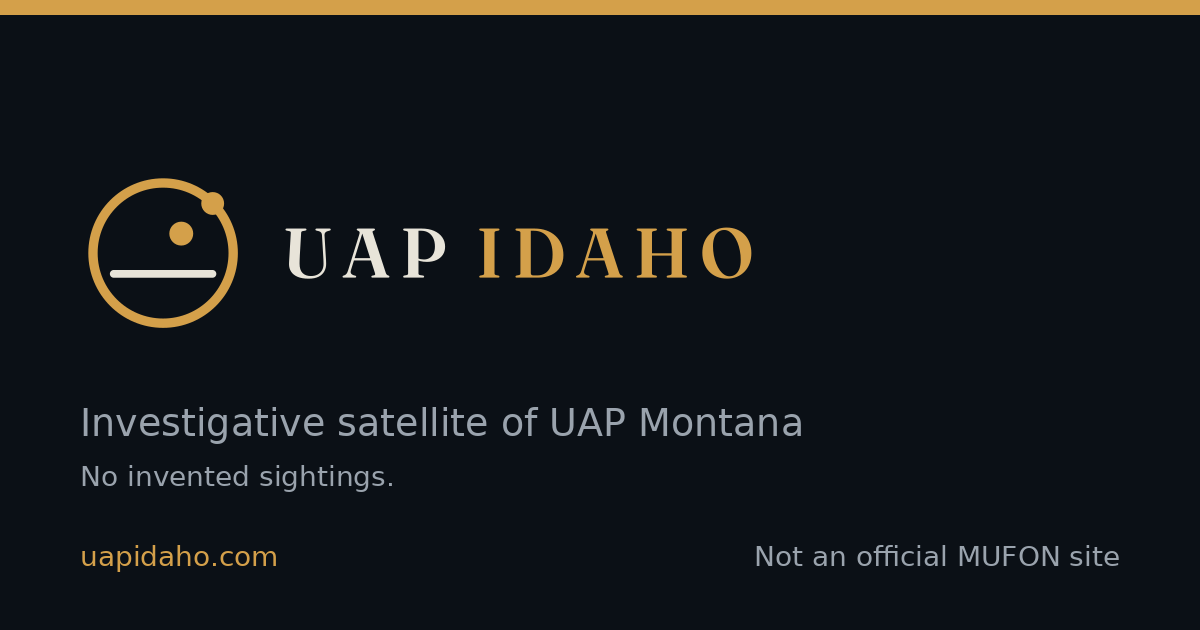
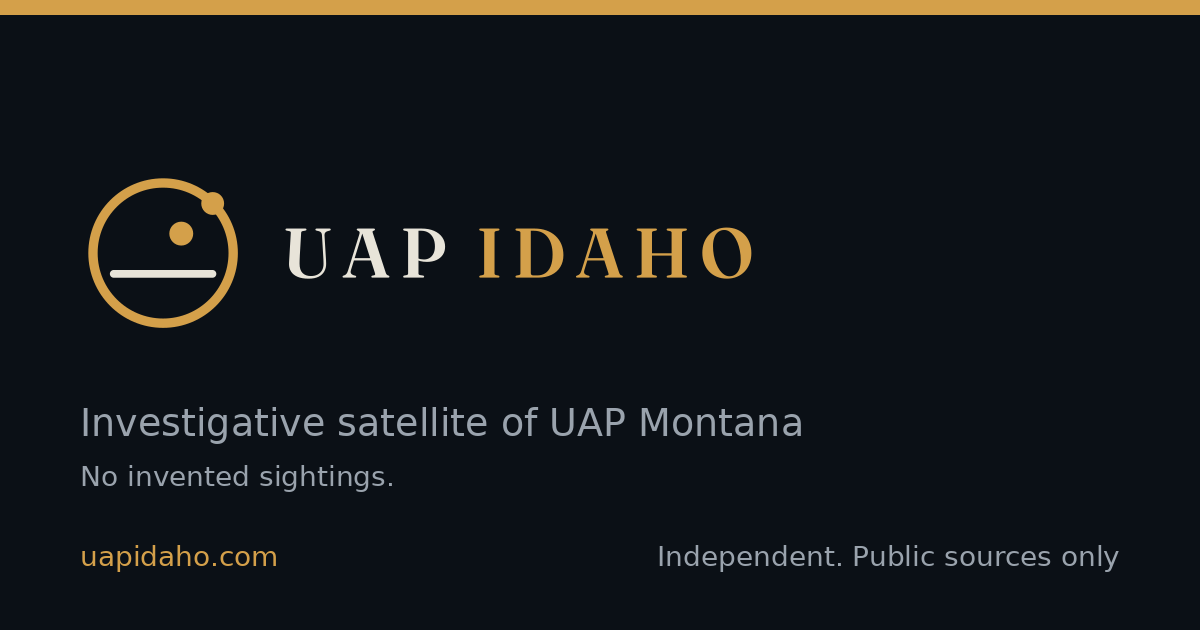
Trim MUFON references

Changed region(s): [[0.555, 0.8444, 0.9558, 0.9048]]

diff --git a/about.html b/about.html
@@ -4,7 +4,7 @@
 <meta charset="utf-8" />
 <meta name="viewport" content="width=device-width, initial-scale=1" />
 <title>About — UAP Idaho</title>
-<meta name="description" content="UAP Idaho is the investigative satellite of UAP Montana. Public sources, no invented sightings, not an official MUFON site." />
+<meta name="description" content="UAP Idaho is the investigative satellite of UAP Montana. Public sources, no invented sightings." />
 <meta name="color-scheme" content="dark" />
 <meta name="theme-color" content="#0b1016" />
 
@@ -17,7 +17,7 @@
 <meta property="og:type" content="website" />
 <meta property="og:site_name" content="UAP Idaho" />
 <meta property="og:title" content="About — UAP Idaho" />
-<meta property="og:description" content="UAP Idaho is the investigative satellite of UAP Montana. Public sources, no invented sightings, not an official MUFON site." />
+<meta property="og:description" content="UAP Idaho is the investigative satellite of UAP Montana. Public sources, no invented sightings." />
 <meta property="og:url" content="https://uapidaho.com/about.html" />
 <meta property="og:image" content="https://uapidaho.com/og.png" />
 <meta property="og:image:width" content="1200" />
@@ -25,7 +25,7 @@
 <meta property="og:image:alt" content="UAP Idaho — public-source field notes" />
 <meta name="twitter:card" content="summary_large_image" />
 <meta name="twitter:title" content="About — UAP Idaho" />
-<meta name="twitter:description" content="UAP Idaho is the investigative satellite of UAP Montana. Public sources, no invented sightings, not an official MUFON site." />
+<meta name="twitter:description" content="UAP Idaho is the investigative satellite of UAP Montana. Public sources, no invented sightings." />
 <meta name="twitter:image" content="https://uapidaho.com/og.png" />
 <link rel="stylesheet" href="/styles.css" />
 </head>
@@ -48,7 +48,7 @@
 <p>Public X and news, AMS/IMO fireball notices, space weather, FAA GPS-test windows, and historical NUFORC <em>patterns</em>. If a source is down, we say it’s down.</p>
 
 <h2>Independence</h2>
-<p><strong>This site is not an official MUFON publication</strong>, is not affiliated with any government agency, and does not publish confidential case files or witness details.</p>
+<p><strong>This site is independent</strong>, is not affiliated with any government agency, and does not publish confidential case files or witness details.</p>
 
 <h2>Reports</h2>
 <p>UFO / UAP reports are encouraged and all reports are investigated. There is no Idaho form; email <a href="mailto:uapmontana@pm.me">uapmontana@pm.me</a>. A secure database will come first before any form goes live — see <a href="/contact.html">Contact</a>.</p>
@@ -58,7 +58,7 @@
 </div>
 </div></main>
 <footer class="site-footer"><div class="wrap">
-<p>Not an official MUFON publication. Public sources only. We do not invent sightings or publish confidential investigations.</p>
+<p>Independent. Public sources only. We do not invent sightings or publish confidential investigations.</p>
 <p>Primary site: <a href="https://uapmontana.com/">← UAP Montana</a> · satellite of UAP Montana</p>
 <p>© UAP Idaho · <a href="/privacy.html">Privacy</a> · <a href="mailto:uapmontana@pm.me">uapmontana@pm.me</a></p>
 </div></footer>

diff --git a/index.html b/index.html
@@ -4,7 +4,7 @@
 <meta charset="utf-8" />
 <meta name="viewport" content="width=device-width, initial-scale=1" />
 <title>UAP Idaho — investigative satellite of UAP Montana</title>
-<meta name="description" content="UAP Idaho is the investigative satellite of UAP Montana: public-source field notes on Idaho skies. No invented sightings. Not an official MUFON site." />
+<meta name="description" content="UAP Idaho is the investigative satellite of UAP Montana: public-source field notes on Idaho skies. No invented sightings." />
 <meta name="color-scheme" content="dark" />
 <meta name="theme-color" content="#0b1016" />
 
@@ -17,7 +17,7 @@
 <meta property="og:type" content="website" />
 <meta property="og:site_name" content="UAP Idaho" />
 <meta property="og:title" content="UAP Idaho — investigative satellite of UAP Montana" />
-<meta property="og:description" content="UAP Idaho is the investigative satellite of UAP Montana: public-source field notes on Idaho skies. No invented sightings. Not an official MUFON site." />
+<meta property="og:description" content="UAP Idaho is the investigative satellite of UAP Montana: public-source field notes on Idaho skies. No invented sightings." />
 <meta property="og:url" content="https://uapidaho.com/" />
 <meta property="og:image" content="https://uapidaho.com/og.png" />
 <meta property="og:image:width" content="1200" />
@@ -25,7 +25,7 @@
 <meta property="og:image:alt" content="UAP Idaho — public-source field notes" />
 <meta name="twitter:card" content="summary_large_image" />
 <meta name="twitter:title" content="UAP Idaho — investigative satellite of UAP Montana" />
-<meta name="twitter:description" content="UAP Idaho is the investigative satellite of UAP Montana: public-source field notes on Idaho skies. No invented sightings. Not an official MUFON site." />
+<meta name="twitter:description" content="UAP Idaho is the investigative satellite of UAP Montana: public-source field notes on Idaho skies. No invented sightings." />
 <meta name="twitter:image" content="https://uapidaho.com/og.png" />
 <link rel="stylesheet" href="/styles.css" />
 </head>
@@ -70,7 +70,7 @@
 </div>
 </div></main>
 <footer class="site-footer"><div class="wrap">
-<p>Not an official MUFON publication. Public sources only. We do not invent sightings or publish confidential investigations.</p>
+<p>Independent. Public sources only. We do not invent sightings or publish confidential investigations.</p>
 <p>Primary site: <a href="https://uapmontana.com/">← UAP Montana</a> · satellite of UAP Montana</p>
 <p>© UAP Idaho · <a href="/privacy.html">Privacy</a> · <a href="mailto:uapmontana@pm.me">uapmontana@pm.me</a></p>
 </div></footer>

diff --git a/contact.html b/contact.html
@@ -63,10 +63,10 @@
 </fieldset>
 </form>
 </div>
-<p class="note">NUFORC and MUFON remain valid parallel channels. Not an official MUFON site.</p>
+<p class="note">NUFORC and other investigative groups remain valid parallel channels for reporting.</p>
 </div></main>
 <footer class="site-footer"><div class="wrap">
-<p>Not an official MUFON publication. Public sources only. We do not invent sightings or publish confidential investigations.</p>
+<p>Independent. Public sources only. We do not invent sightings or publish confidential investigations.</p>
 <p>Primary site: <a href="https://uapmontana.com/">← UAP Montana</a> · satellite of UAP Montana</p>
 <p>© UAP Idaho · <a href="/privacy.html">Privacy</a> · <a href="mailto:uapmontana@pm.me">uapmontana@pm.me</a></p>
 </div></footer>

diff --git a/privacy.html b/privacy.html
@@ -53,7 +53,7 @@
 <p class="note">Questions: <a href="mailto:uapmontana@pm.me">uapmontana@pm.me</a>. Last updated 2026-10-02.</p>
 </div></main>
 <footer class="site-footer"><div class="wrap">
-<p>Not an official MUFON publication. Public sources only. We do not invent sightings or publish confidential investigations.</p>
+<p>Independent. Public sources only. We do not invent sightings or publish confidential investigations.</p>
 <p>Primary site: <a href="https://uapmontana.com/">← UAP Montana</a> · satellite of UAP Montana</p>
 <p>© UAP Idaho · <a href="/privacy.html">Privacy</a> · <a href="mailto:uapmontana@pm.me">uapmontana@pm.me</a></p>
 </div></footer>

diff --git a/404.html b/404.html
@@ -43,7 +43,7 @@
 <p><a href="/">Go to the home page</a> · <a href="/contact.html">Contact</a></p>
 </div></main>
 <footer class="site-footer"><div class="wrap">
-<p>Not an official MUFON publication. Public sources only. We do not invent sightings or publish confidential investigations.</p>
+<p>Independent. Public sources only. We do not invent sightings or publish confidential investigations.</p>
 <p>Primary site: <a href="https://uapmontana.com/">← UAP Montana</a> · satellite of UAP Montana</p>
 <p>© UAP Idaho · <a href="/privacy.html">Privacy</a> · <a href="mailto:uapmontana@pm.me">uapmontana@pm.me</a></p>
 </div></footer>

diff --git a/notes.html b/notes.html
@@ -51,7 +51,7 @@
 </div>
 </div></main>
 <footer class="site-footer"><div class="wrap">
-<p>Not an official MUFON publication. Public sources only. We do not invent sightings or publish confidential investigations.</p>
+<p>Independent. Public sources only. We do not invent sightings or publish confidential investigations.</p>
 <p>Primary site: <a href="https://uapmontana.com/">← UAP Montana</a> · satellite of UAP Montana</p>
 <p>© UAP Idaho · <a href="/privacy.html">Privacy</a> · <a href="mailto:uapmontana@pm.me">uapmontana@pm.me</a></p>
 </div></footer>

diff --git a/README.md b/README.md
@@ -1,3 +1,3 @@
 # UAP Idaho — uapidaho.com
 
-Static site (plain HTML/CSS, no build step), served via GitHub Pages. Public-source field notes; not an official MUFON site.
+Static site (plain HTML/CSS, no build step), served via GitHub Pages. Public-source field notes.
